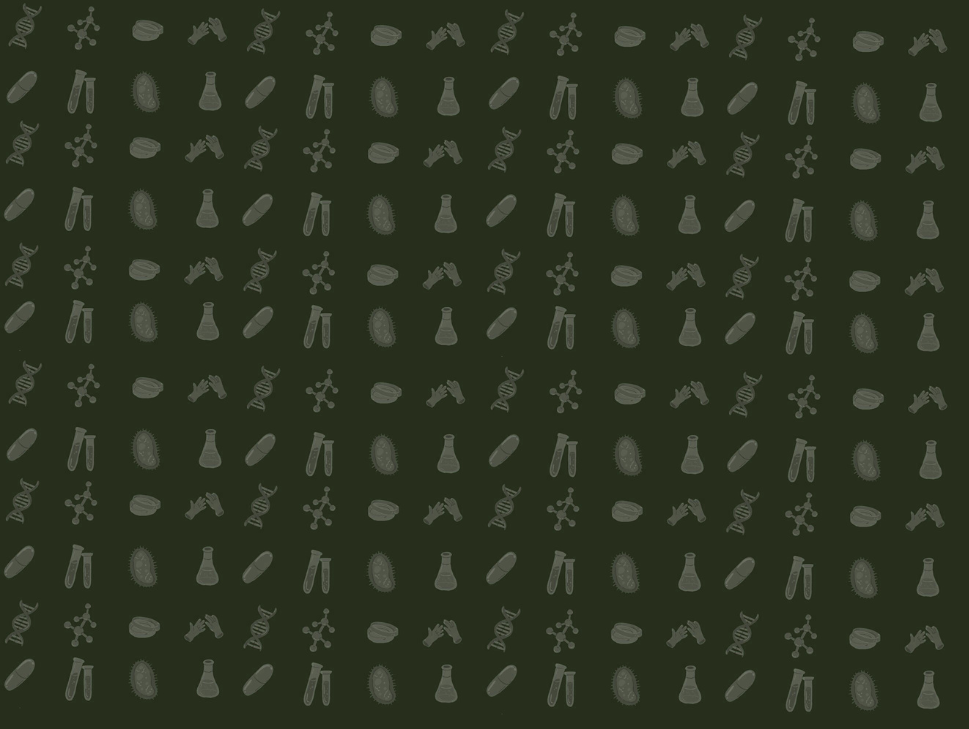
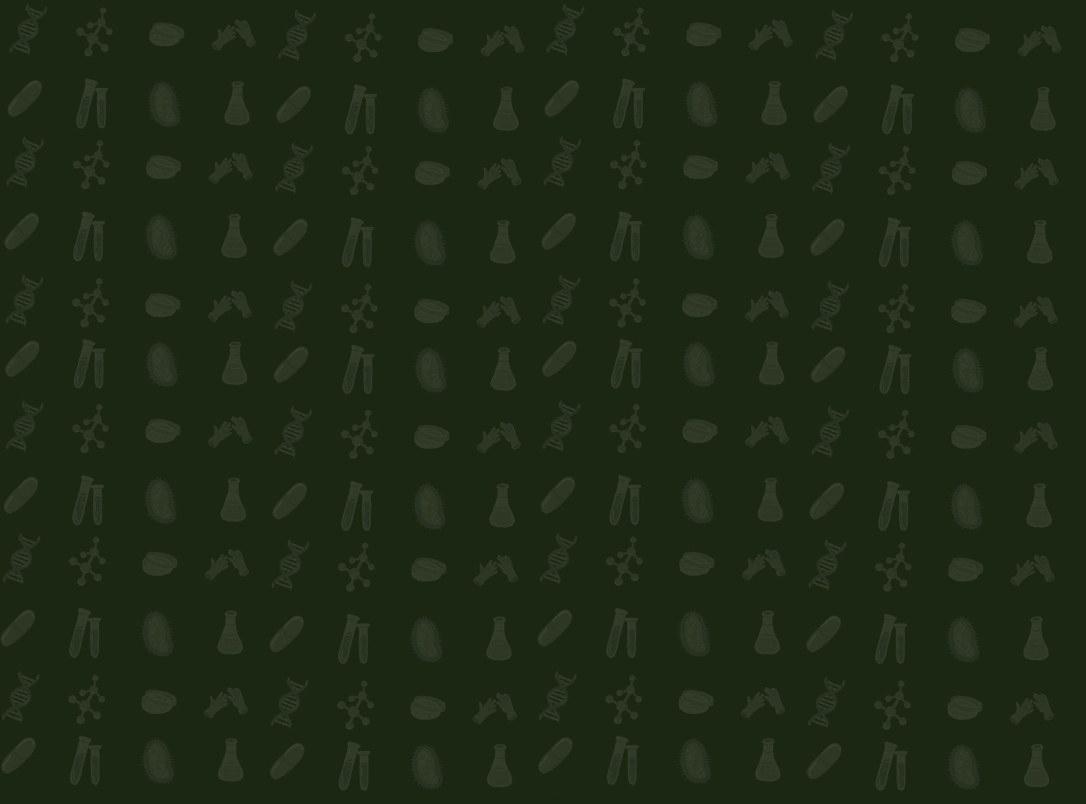
background

diff --git a/src/index.css b/src/index.css
@@ -5,14 +5,24 @@ body {
   margin: 0;
   padding: 0;
   width: 100%;
-  background-image: url("./assets//background.png");
-  background-repeat: repeat;
-  background-position: top left;
   font-family: "PT Sans", sans-serif;
 
-  /* locked during loader */
+  /* scroll lock handled elsewhere */
   overflow: hidden;
+  position: relative;
 }
+
+/* background layer */
+body::before {
+  content: "";
+  position: fixed;
+  inset: 0;
+  background-image: url("./assets/background.png");
+  background-repeat: repeat;
+  background-position: top left;
+  z-index: -1;
+}
+
 
 /* unlock after loader */
 body.loaded {
